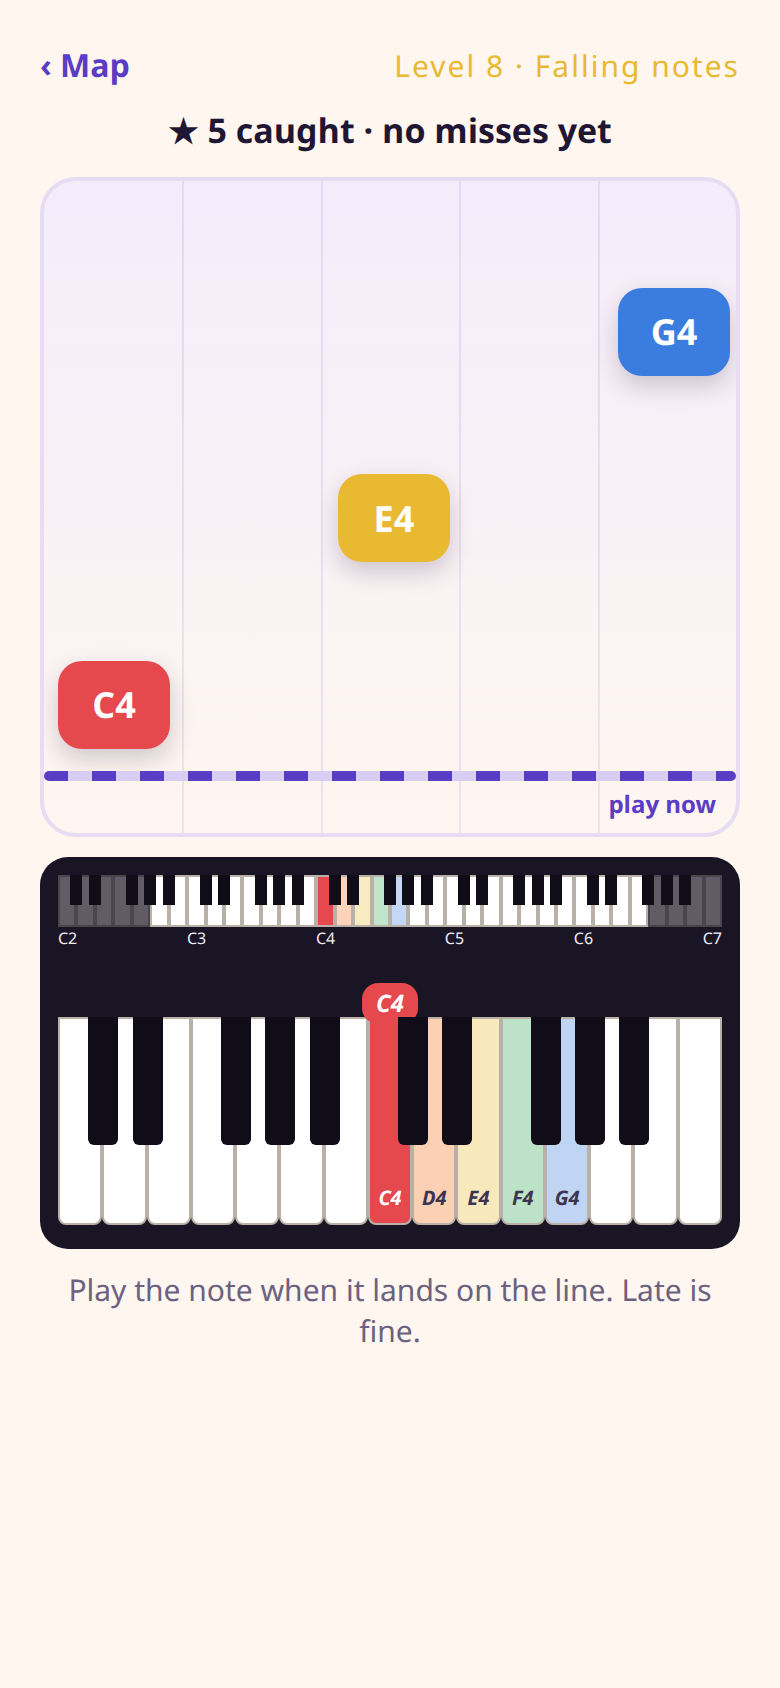
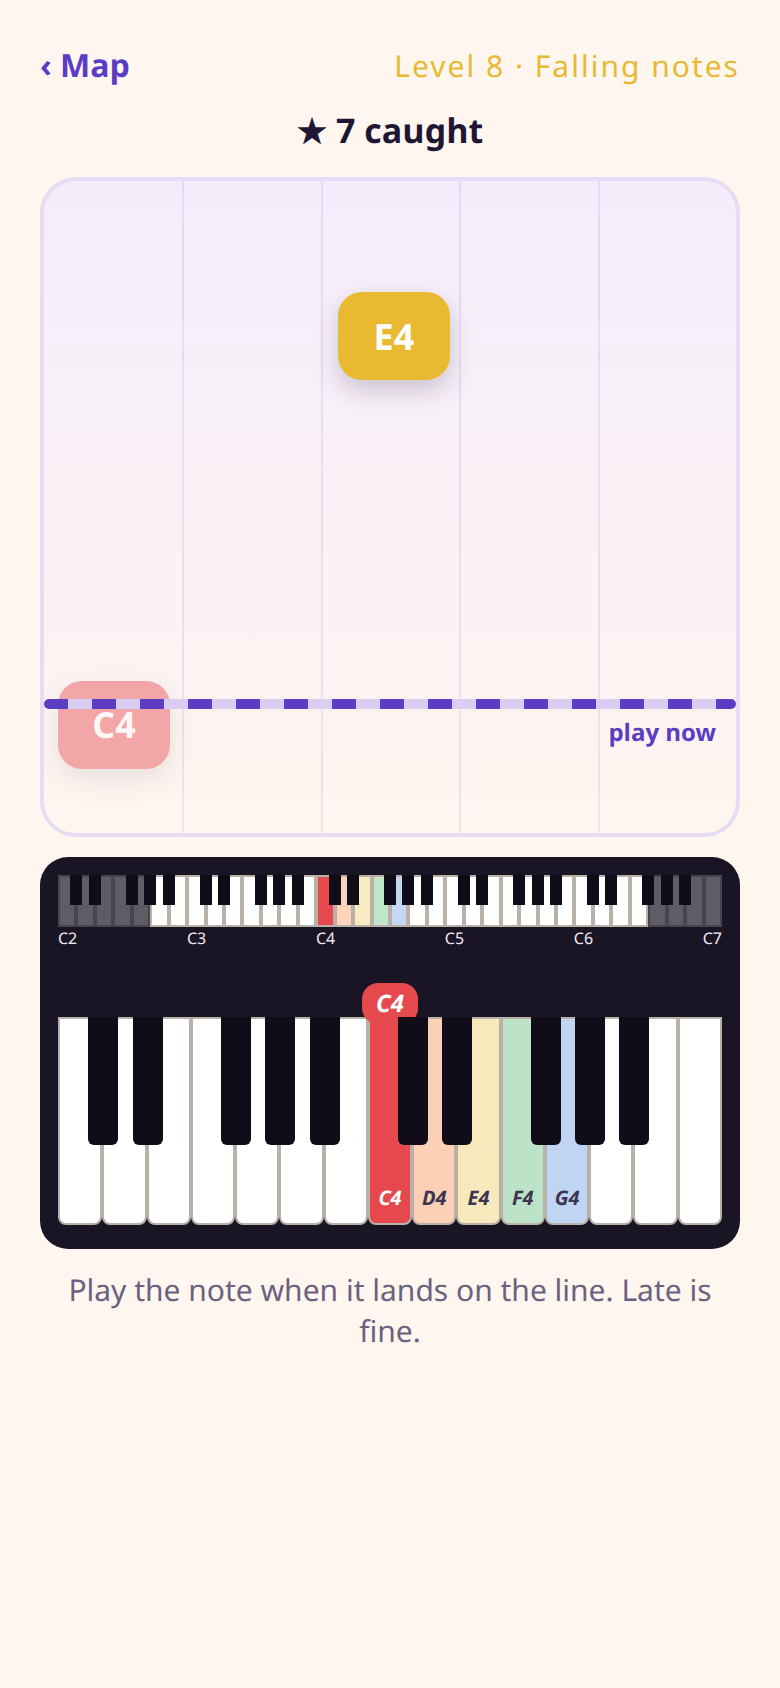
Correct the falling-game mockup to what the timing can produce
Three tiles on screen needs a 1.2 s gap, which would leave the hit
windows almost touching. At a 3 s fall and a 2.5 s gap only two tiles
coexist, and only for half a second. The lower tile is now past the
line and fading, since a third of the window lives there, and the
header counts catches only.

diff --git a/docs/ui-mockups/shot-falling.html b/docs/ui-mockups/shot-falling.html
@@ -10,7 +10,7 @@
       <span class="back">‹ Map</span>
       <div class="stars" style="font-size:15px">Level 8 · Falling notes</div>
     </div>
-    <div class="combo">★ 5 caught · no misses yet</div>
+    <div class="combo">★ 7 caught</div>
     <div class="field" id="field"></div>
     <div id="kb" style="margin-top:10px"></div>
     <p class="sub" style="text-align:center;margin-top:10px">
@@ -19,11 +19,12 @@
   </div>
   <script src="kids-keyboard.js"></script>
   <script>
-    // progress: 0 = just spawned, 1 = on the hit line
+    // progress: 0 = just spawned, 1 = on the hit line, >1 = past it and fading.
+    // Two tiles, not three: a 3 s fall and a 2.5 s gap means only two can
+    // share the screen, and only for about half a second.
     const TILES = [
-      { midi: 60, lane: 0, p: 0.92 },
-      { midi: 64, lane: 2, p: 0.55 },
-      { midi: 67, lane: 4, p: 0.18 },
+      { midi: 60, lane: 0, p: 1.12, fade: 0.45 },
+      { midi: 64, lane: 2, p: 0.22 },
     ];
     const field = document.getElementById("field");
     const LANES = 5;
@@ -34,11 +35,12 @@
     // `top` is a non-configurable window property, so a const of that name
     // would throw before any of this runs.
     const startY = 8;
-    const lineY = 330 - 26 - 44;
+    const lineY = 330 - 62 - 44;
     TILES.forEach((t) => {
       const y = startY + t.p * (lineY - startY);
       const x = (t.lane + 0.5) * (350 / LANES) - 28;
-      html += `<div class="tile" style="background:${KEY_COLORS[t.midi]};top:${y}px;left:${x}px">
+      const fade = t.fade ? `;opacity:${t.fade}` : "";
+      html += `<div class="tile" style="background:${KEY_COLORS[t.midi]};top:${y}px;left:${x}px${fade}">
         ${noteName(t.midi)}
       </div>`;
     });

diff --git a/docs/ui-mockups/kids.css b/docs/ui-mockups/kids.css
@@ -120,13 +120,15 @@ h1 { margin: 0; font-size: 26px; letter-spacing: -0.3px; }
   color: #fff; font-weight: 800; font-size: 18px;
   display: grid; place-items: center; box-shadow: 0 5px 12px rgba(30,22,51,0.2);
 }
+/* The line sits well clear of the bottom edge: a tile keeps falling past it,
+   fading, for as long as its hit window stays open. */
 .hitline {
-  position: absolute; left: 0; right: 0; bottom: 26px; height: 5px;
+  position: absolute; left: 0; right: 0; bottom: 62px; height: 5px;
   background: repeating-linear-gradient(90deg, var(--purple) 0 12px, #d9ccf5 12px 24px);
   border-radius: 3px;
 }
 .hitlabel {
-  position: absolute; right: 10px; bottom: 6px; font-size: 12px;
+  position: absolute; right: 10px; bottom: 42px; font-size: 12px;
   color: var(--purple); font-weight: 800;
 }
 .combo { text-align: center; font-size: 17px; font-weight: 800; margin-top: 10px; }

diff --git a/docs/ui-mockups/kids-prototype.html b/docs/ui-mockups/kids-prototype.html
@@ -29,7 +29,9 @@
       answered on screen — including the key the child actually hit, ringed in amber.
       Sessions end with a real tune playable on the keys learned so far. The falling-notes
       game is the reward at the top, with a wide hit window and no way to lose.
-      Screens below are prototypes, not the installed app.
+      Screens below are prototypes, not the installed app. Levels 1–7 and the songs
+      ship as 0.6.0; the falling game is level 8 and ships as 0.7.0, once the real
+      microphone-to-judgement delay has been measured from an exported session log.
     </p>
   </header>
   <div class="rack">

diff --git a/docs/ui-mockups/shot-levelmap.html b/docs/ui-mockups/shot-levelmap.html
@@ -25,7 +25,7 @@
       { n: 5, t: "Four keys: F joins", keys: [60, 62, 64, 65], stars: 0, locked: true },
       { n: 6, t: "All five: G joins", keys: [60, 62, 64, 65, 67], stars: 0, locked: true },
       { n: 7, t: "Song time", keys: [60, 62, 64, 65, 67], stars: 0, locked: true, song: true },
-      { n: 8, t: "Falling notes", keys: [60, 62, 64, 65, 67], stars: 0, locked: true, game: true },
+      { n: 8, t: "Falling notes · soon", keys: [60, 62, 64, 65, 67], stars: 0, locked: true, game: true },
     ];
     const stars = (n) =>
       [0, 1, 2].map((i) => `<span class="${i < n ? "" : "off"}">★</span>`).join("");

diff --git a/docs/ui-mockups/README.md b/docs/ui-mockups/README.md
@@ -8,7 +8,7 @@ These screens are the design to implement. They are **not** screenshots of a bui
 - `kids_levelmap.png` — eight stops, stars, locked stops dimmed.
 - `kids_drill.png` — levels 1–6. Hero is the note name in the key's colour; the key the child actually hit is ringed amber.
 - `kids_song.png` — note bubbles with lyric syllables, rhythm-free.
-- `kids_falling.png` — tiles falling to the hit line above the keyboard.
+- `kids_falling.png` — tiles falling to the hit line above the keyboard. Two tiles, not three: a 3 s fall with a 2.5 s gap means only two can share the screen. The lower tile is past the line and fading, because over a third of the hit window lives there.
 - `kids_summary.png` — stars and the song offer.
 
 Shared assets: `kids.css`, `kids-keyboard.js`, `shot-levelmap|drill|song|falling|summary.html`.
